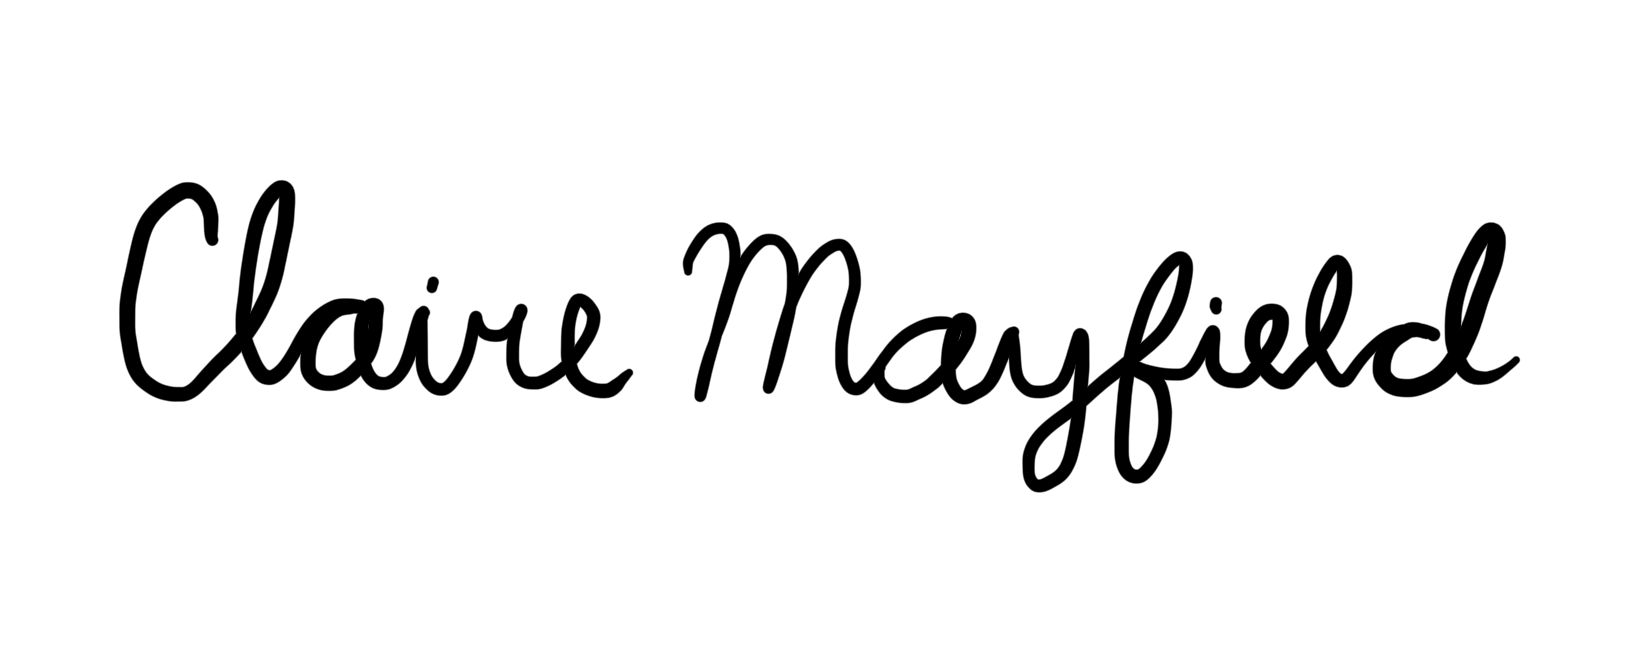
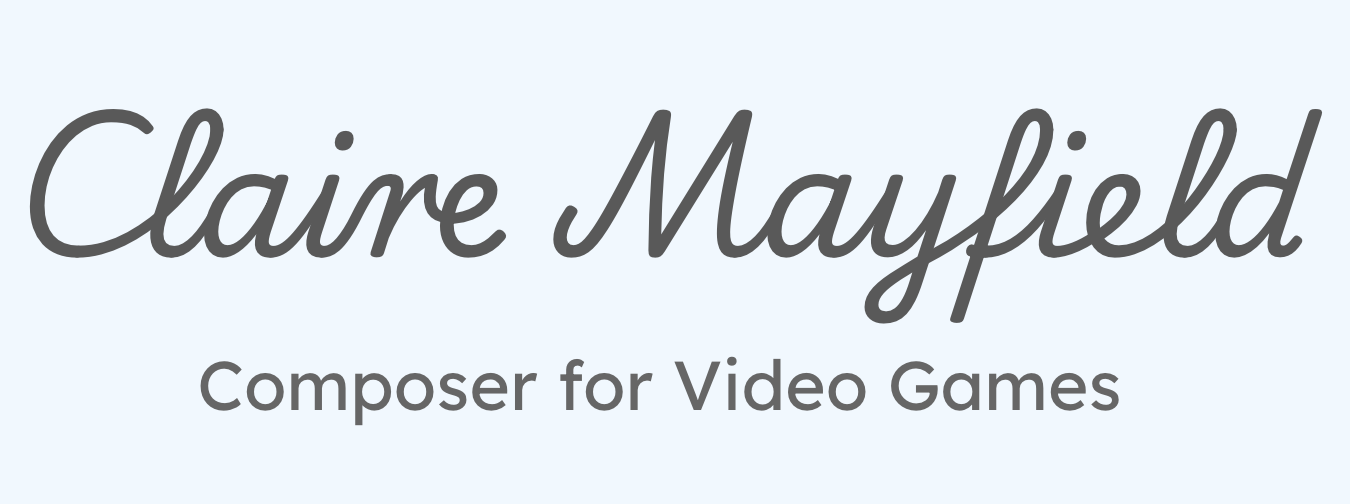
main page

Changed region(s): [[0.0, 0.2083, 0.9956, 0.8333], [0.2489, 0.2679, 0.28, 0.2976], [0.1556, 0.7143, 0.1867, 0.744]]

diff --git a/index.html b/index.html
@@ -14,9 +14,8 @@
 	      }
 	    </style>
 
-<p style="font-size:60px;"><b>Claire Mayfield</b></p>
-<p style="font-size:20px;"><em>Composer and Sound Designer for Video Games </em></p> 
-	<br>
+<img src="Text_ClaireMayfield.png" width="630" height="300"> 
+<br>
 	
 <a href="https://claire-mayfield.github.io/Listen/"><img src="Button_Listen.png" width="150" height="50" alt="Listen"></a>
 <a href="https://claire-mayfield.github.io/Credits/"><img src="Button_Credits.png" width="150" height="50" alt="Listen"></a>
@@ -25,12 +24,10 @@
 	
 <br>
 <br>
+<br>
 
 <img src="Conducting_RecordCo.jpg" width="560" height="400"> 
-<br>
 
-<br>
-<br>
 
 <p style="font-size:30px;"><b>Demo Reel</b></p>
 
